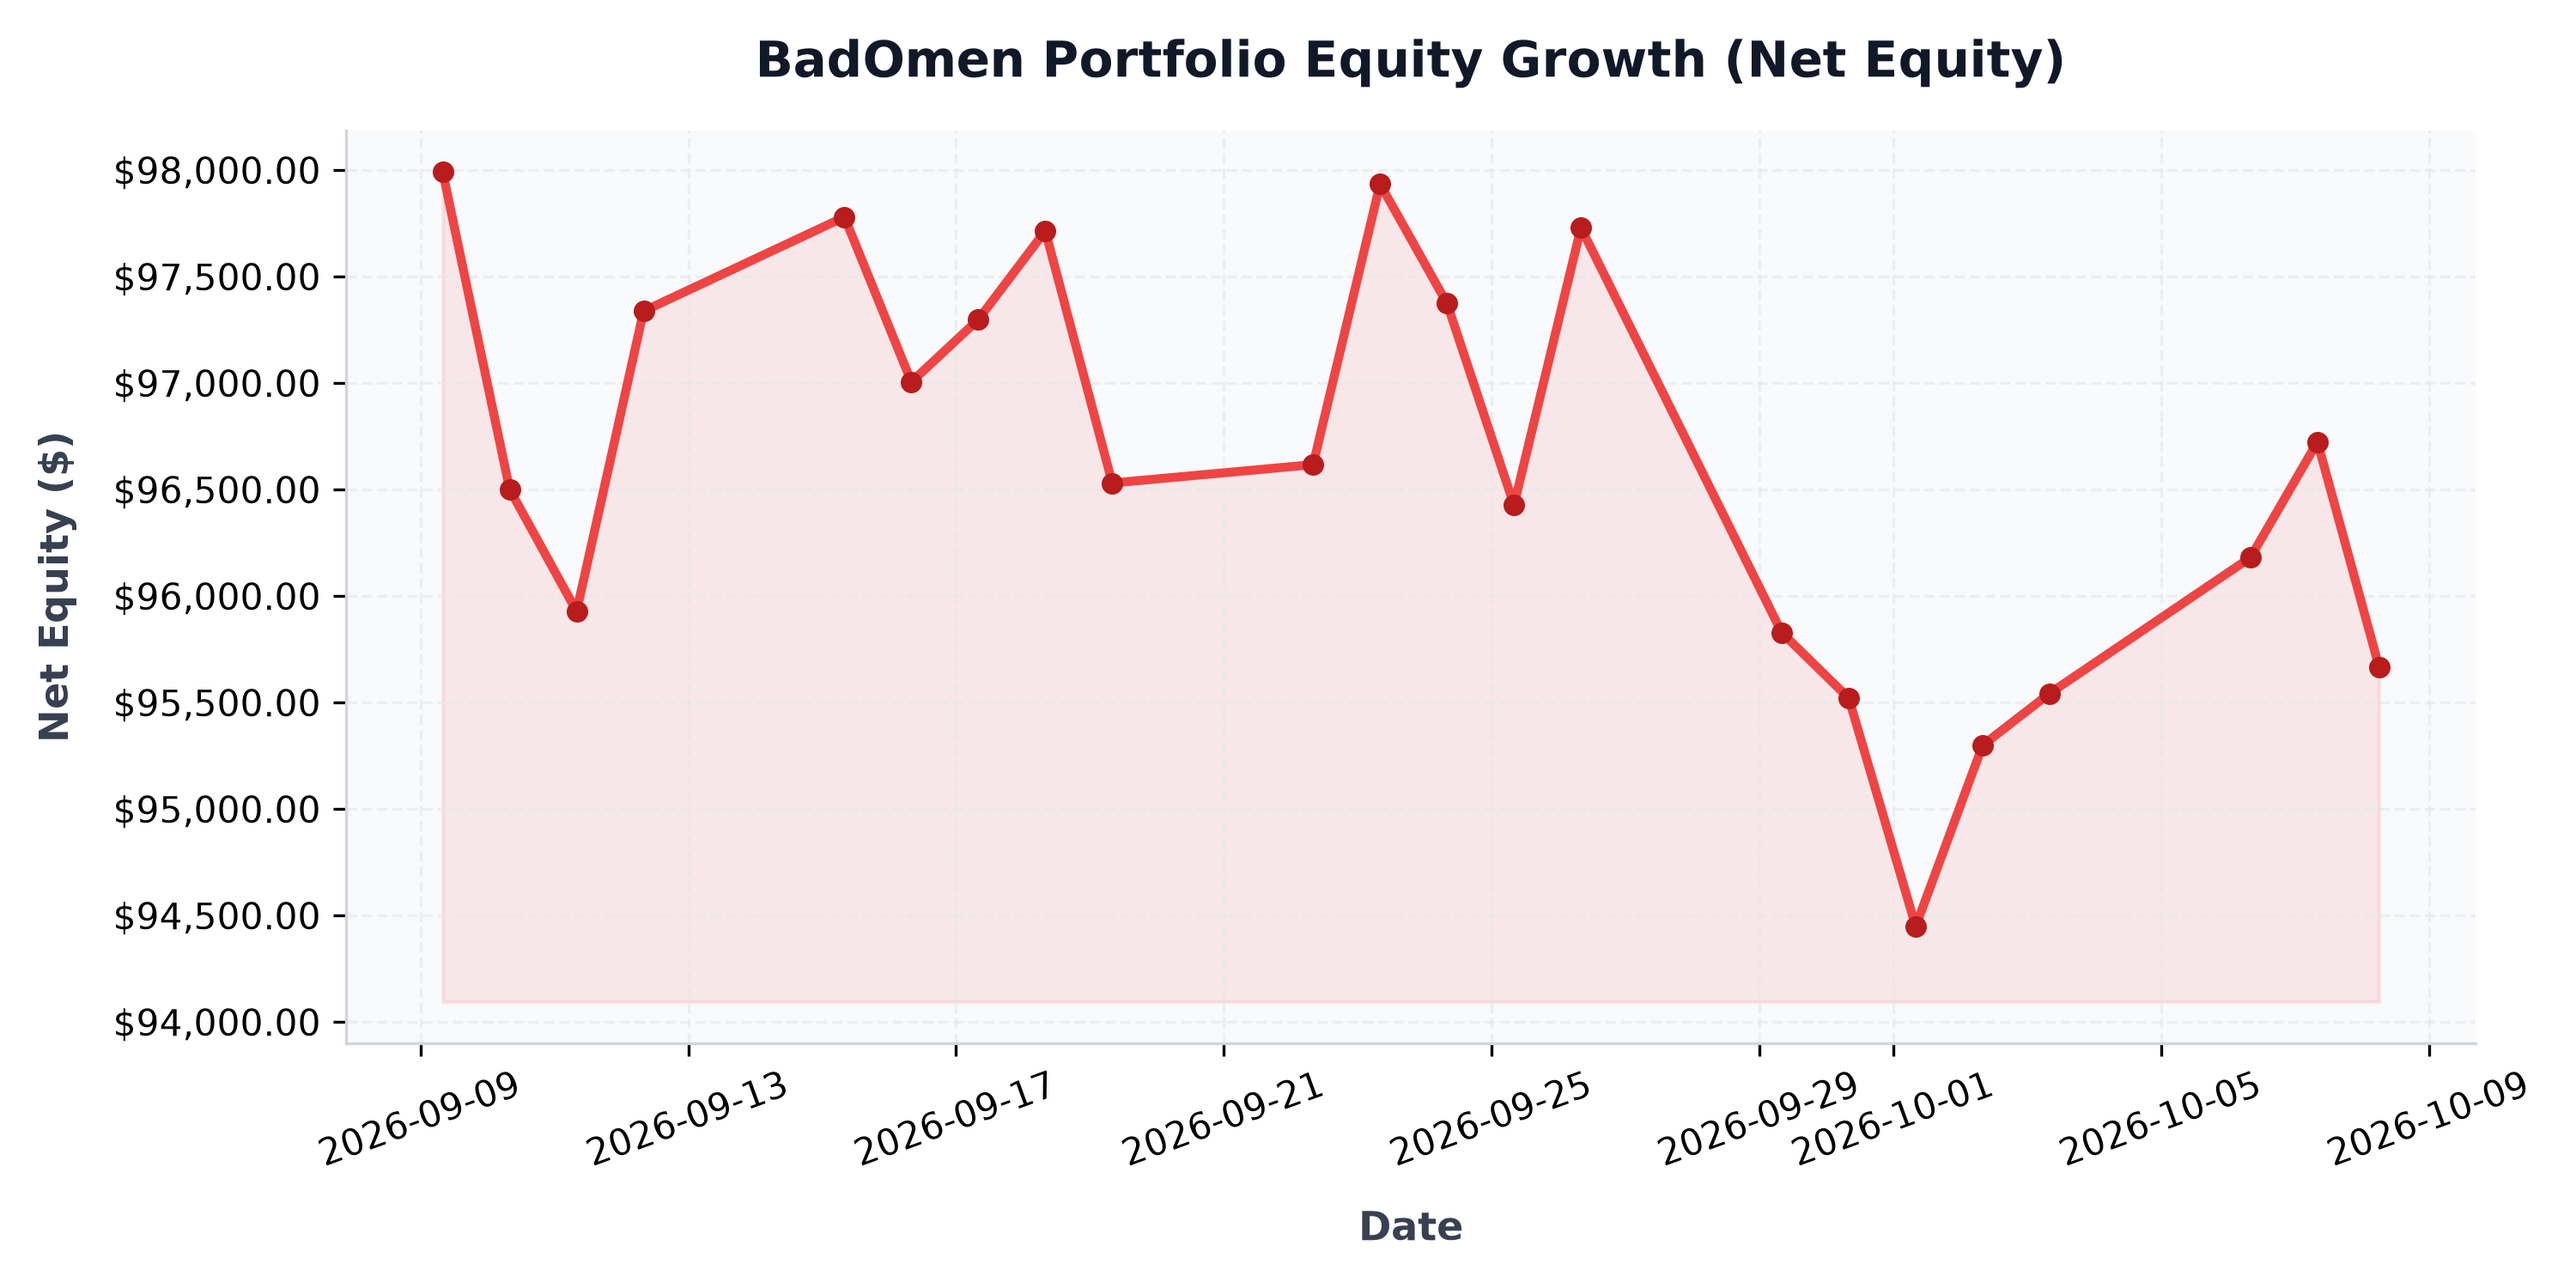
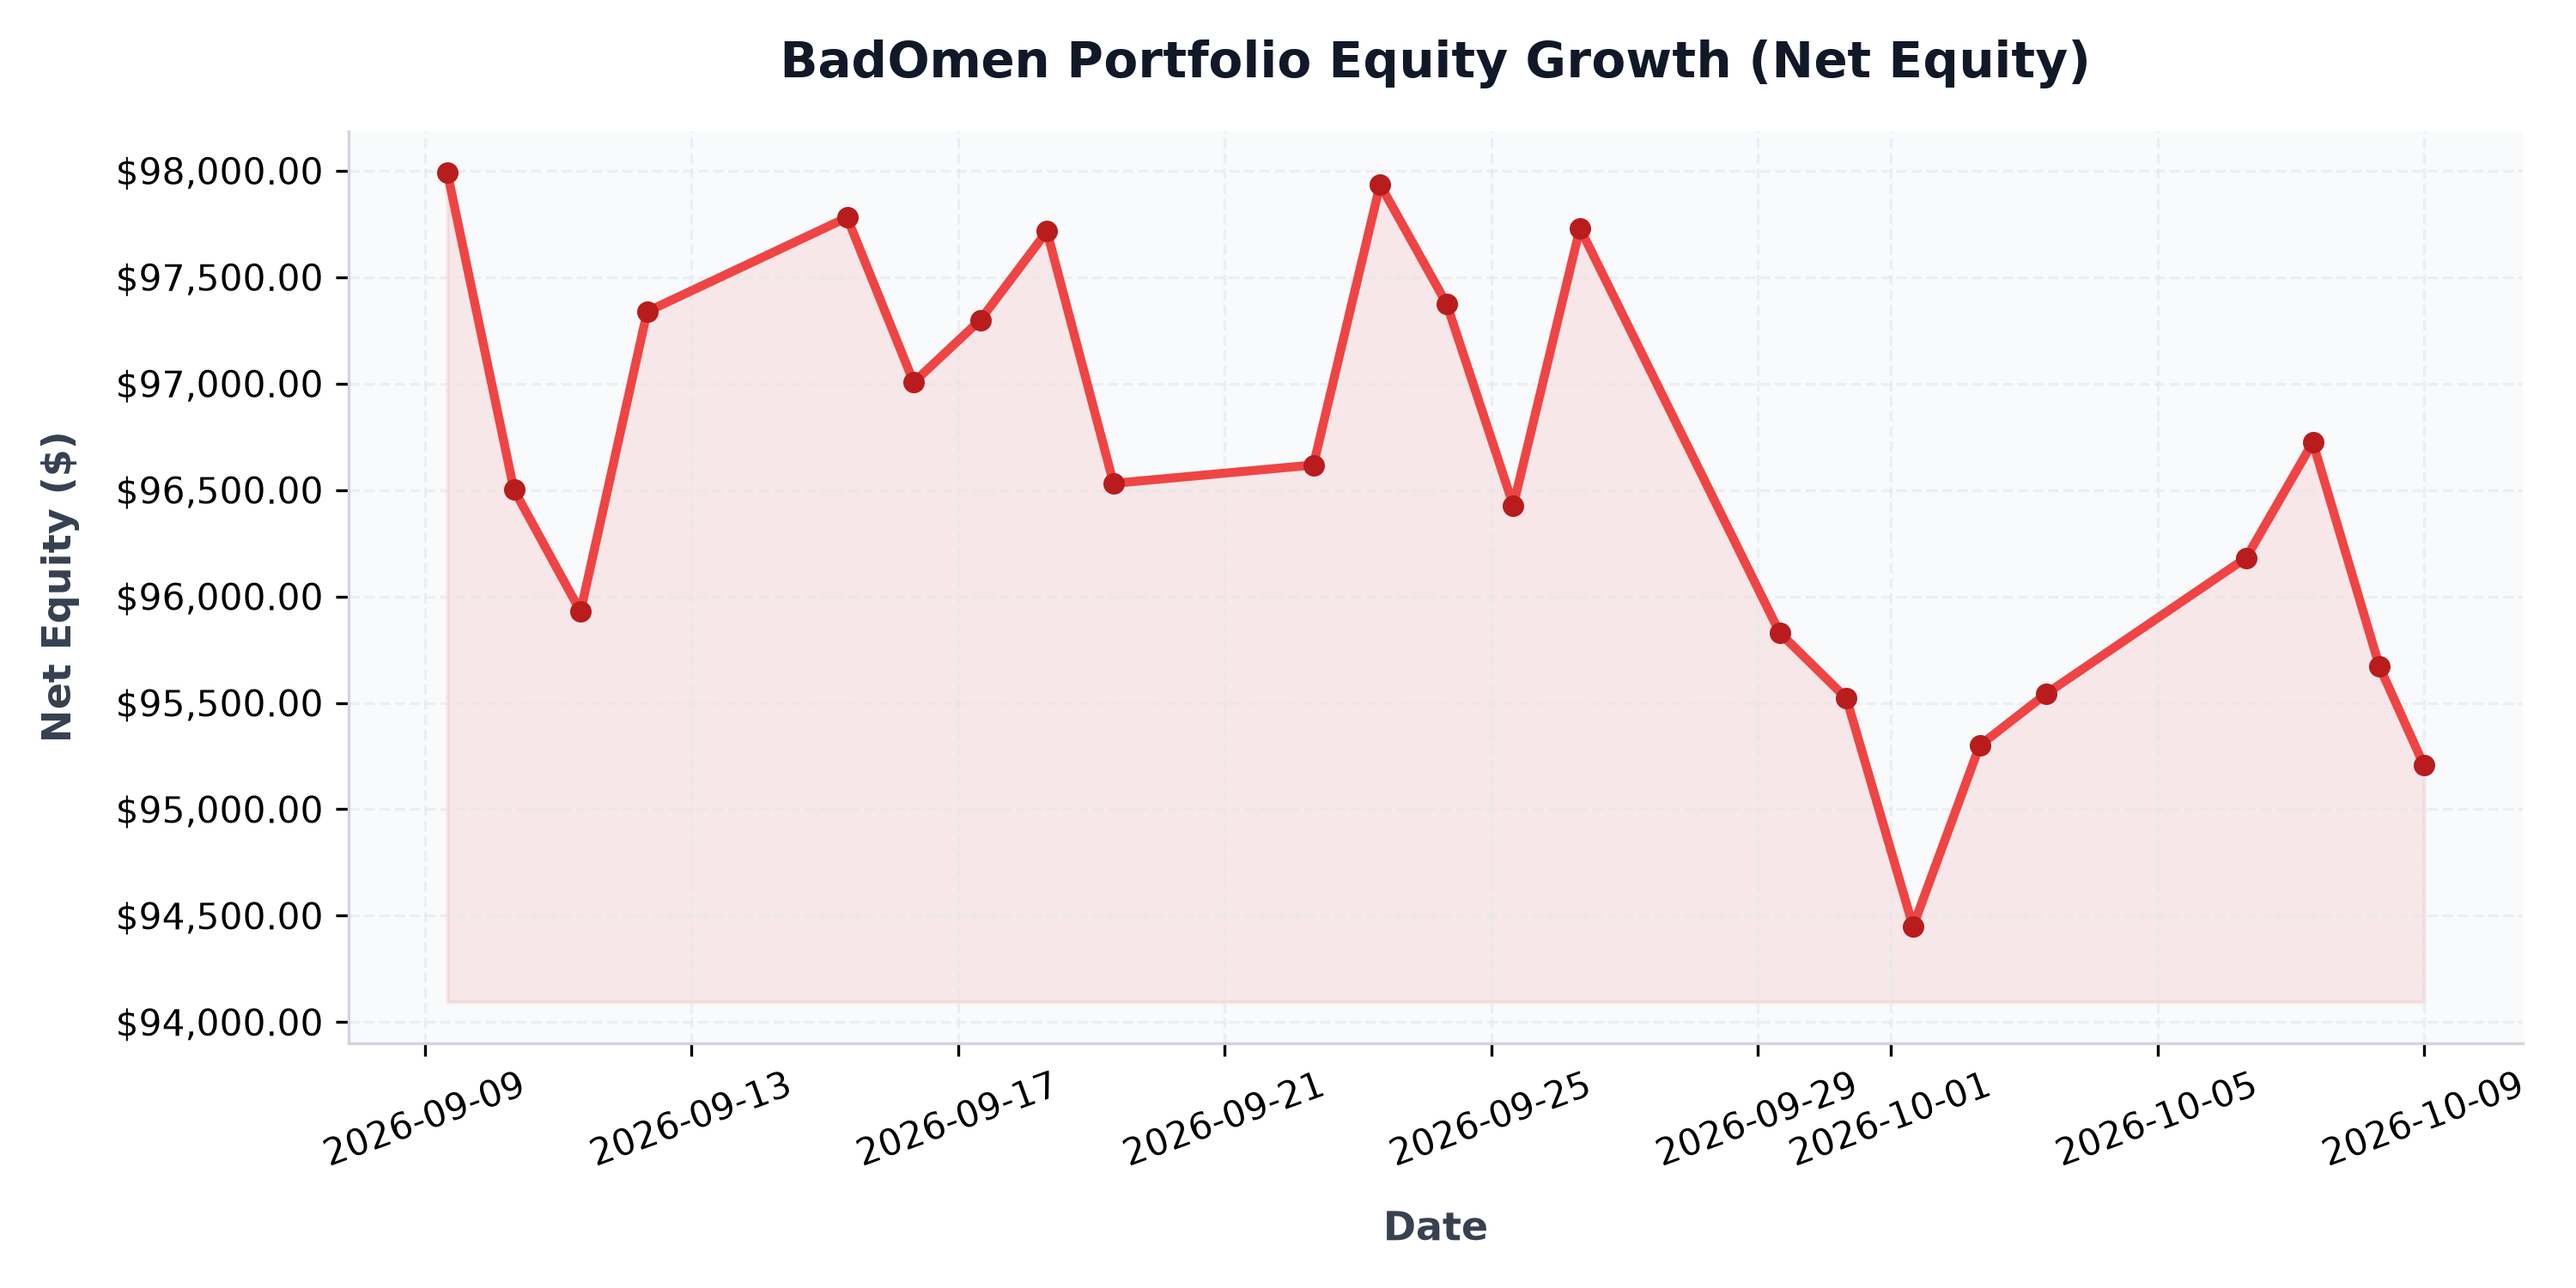
auto: daily portfolio status update - 2026-10-09 00:00:14

diff --git a/src/content/posts/portfolio-performance.md b/src/content/posts/portfolio-performance.md
@@ -1,6 +1,6 @@
 ---
 title: "BadOmen Algorithmic Portfolio Performance & PnL Report"
-pubDatetime: 2026-10-08T06:05:13.474182+08:00
+pubDatetime: 2026-10-09T00:00:14.717110+08:00
 description: "Live performance metrics, active holdings, and historic equity curve for the BadOmen automated paper trading portfolio."
 featured: true
 draft: false
@@ -16,11 +16,11 @@ Welcome to the live performance dashboard for **BadOmen**, our automated algorit
 ## 📊 Portfolio Summary
 | Performance Metric | Value | description |
 | :--- | :--- | :--- |
-| **Net Portfolio Equity** | **$95,667.67** | Total current liquidation value of cash and stock holdings |
-| **Total Unrealized P&L** | 🔴 **$-5,384.66** (-5.33%) | Total return of current open holdings |
+| **Net Portfolio Equity** | **$95,206.98** | Total current liquidation value of cash and stock holdings |
+| **Total Unrealized P&L** | 🔴 **$-5,839.27** (-5.78%) | Total return of current open holdings |
 | **Cash Balance** | $24,224.56 | Idle reserve currency available for limit orders |
-| **Buying Power** | $296,938.95 | Margin-backed buying power for entry allocations |
-| **Report Updated** | `2026-10-08 06:05:13 (SGT)` | Timestamp of daily execution and sync run |
+| **Buying Power** | $295,649.00 | Margin-backed buying power for entry allocations |
+| **Report Updated** | `2026-10-09 00:00:14 (SGT)` | Timestamp of daily execution and sync run |
 
 ## 📈 Net Equity Growth Curve
 The chart below illustrates the historical performance of the account starting from our baseline capital funding of $100,000.00.
@@ -35,35 +35,35 @@ The chart below illustrates the exposure of our currently held active positions 
 ## 💼 Current Position Holdings
 | Ticker | Industry | Shares Owned | Average Entry Cost | Current Price | Unrealized P&L | Return (%) |
 | :--- | :--- | :--- | :--- | :--- | :--- | :--- |
-| **AN** | Auto & Truck Dealerships | 5 | $188.51 | $156.21 | 🔴 $-161.49 | -17.13% |
-| **AVGO** | Semiconductors | 1 | $385.71 | $376.01 | 🔴 $-9.70 | -2.51% |
-| **BIRK** | Footwear & Accessories | 407 | $37.32 | $33.17 | 🔴 $-1,688.12 | -11.12% |
-| **BLBD** | Farm & Heavy Construction Machinery | 231 | $65.52 | $55.84 | 🔴 $-2,235.15 | -14.77% |
-| **BVN** | Other Precious Metals & Mining | 32 | $31.88 | $31.13 | 🔴 $-23.84 | -2.34% |
-| **CELH** | Beverages - Non-Alcoholic | 33 | $29.71 | $26.98 | 🔴 $-90.20 | -9.20% |
-| **CPRI** | Luxury Goods | 1042 | $14.55 | $14.44 | 🔴 $-116.50 | -0.77% |
-| **DUOL** | Software - Application | 14 | $131.04 | $151.50 | 🟢 +$286.38 | +15.61% |
-| **FIS** | Information Technology Services | 23 | $41.79 | $33.51 | 🔴 $-190.38 | -19.81% |
-| **GDDY** | Software - Infrastructure | 6 | $76.21 | $97.21 | 🟢 +$126.00 | +27.56% |
-| **GDS** | Information Technology Services | 30 | $32.77 | $31.63 | 🔴 $-34.20 | -3.48% |
-| **GGAL** | Banks - Regional | 17 | $56.04 | $37.05 | 🔴 $-322.82 | -33.89% |
-| **GOOGL** | Internet Content & Information | 3 | $319.44 | $350.41 | 🟢 +$92.90 | +9.69% |
-| **GPI** | Auto & Truck Dealerships | 3 | $316.15 | $232.61 | 🔴 $-250.62 | -26.42% |
-| **HUBS** | Software - Application | 8 | $221.18 | $220.33 | 🔴 $-6.81 | -0.39% |
-| **ITRI** | Scientific & Technical Instruments | 12 | $81.80 | $85.58 | 🟢 +$45.36 | +4.62% |
-| **KBR** | Engineering & Construction | 27 | $36.23 | $33.89 | 🔴 $-63.26 | -6.47% |
-| **NESR** | Oil & Gas Equipment & Services | 34 | $28.74 | $23.63 | 🔴 $-173.74 | -17.78% |
-| **NU** | Banks - Regional | 57 | $11.60 | $15.61 | 🟢 +$228.56 | +34.57% |
-| **ON** | Semiconductors | 10 | $90.45 | $82.72 | 🔴 $-77.35 | -8.55% |
-| **ORCL** | Software - Infrastructure | 5 | $181.95 | $143.90 | 🔴 $-190.25 | -20.91% |
-| **PATH** | Software - Infrastructure | 38 | $10.25 | $13.05 | 🟢 +$106.40 | +27.32% |
-| **PYPL** | Credit Services | 17 | $56.05 | $55.08 | 🔴 $-16.49 | -1.73% |
-| **QCOM** | Semiconductors | 15 | $193.68 | $177.27 | 🔴 $-246.28 | -8.48% |
-| **SMCI** | Computer Hardware | 22 | $29.25 | $44.94 | 🟢 +$345.18 | +53.64% |
-| **SRE** | Utilities - Diversified | 57 | $84.75 | $79.69 | 🔴 $-288.56 | -5.97% |
-| **T** | Telecom Services | 47 | $20.85 | $24.50 | 🟢 +$171.55 | +17.51% |
-| **WEN** | Restaurants | 257 | $8.02 | $6.09 | 🔴 $-496.97 | -24.10% |
-| **ZG** | Internet Content & Information | 31 | $31.35 | $27.99 | 🔴 $-104.26 | -10.73% |
+| **AN** | Auto & Truck Dealerships | 5 | $188.51 | $154.90 | 🔴 $-168.04 | -17.83% |
+| **AVGO** | Semiconductors | 1 | $385.71 | $371.46 | 🔴 $-14.24 | -3.69% |
+| **BIRK** | Footwear & Accessories | 407 | $37.32 | $32.50 | 🔴 $-1,960.81 | -12.91% |
+| **BLBD** | Farm & Heavy Construction Machinery | 231 | $65.52 | $55.49 | 🔴 $-2,314.84 | -15.29% |
+| **BVN** | Other Precious Metals & Mining | 32 | $31.88 | $31.16 | 🔴 $-23.04 | -2.26% |
+| **CELH** | Beverages - Non-Alcoholic | 33 | $29.71 | $27.39 | 🔴 $-76.65 | -7.82% |
+| **CPRI** | Luxury Goods | 1042 | $14.55 | $14.52 | 🔴 $-38.35 | -0.25% |
+| **DUOL** | Software - Application | 14 | $131.04 | $151.05 | 🟢 +$280.05 | +15.27% |
+| **FIS** | Information Technology Services | 23 | $41.79 | $33.63 | 🔴 $-187.68 | -19.53% |
+| **GDDY** | Software - Infrastructure | 6 | $76.21 | $101.70 | 🟢 +$152.94 | +33.45% |
+| **GDS** | Information Technology Services | 30 | $32.77 | $30.46 | 🔴 $-69.30 | -7.05% |
+| **GGAL** | Banks - Regional | 17 | $56.04 | $37.06 | 🔴 $-322.65 | -33.87% |
+| **GOOGL** | Internet Content & Information | 3 | $319.44 | $349.00 | 🟢 +$88.68 | +9.25% |
+| **GPI** | Auto & Truck Dealerships | 3 | $316.15 | $230.35 | 🔴 $-257.38 | -27.14% |
+| **HUBS** | Software - Application | 8 | $221.18 | $221.94 | 🟢 +$6.09 | +0.34% |
+| **ITRI** | Scientific & Technical Instruments | 12 | $81.80 | $83.96 | 🟢 +$25.92 | +2.64% |
+| **KBR** | Engineering & Construction | 27 | $36.23 | $34.03 | 🔴 $-59.48 | -6.08% |
+| **NESR** | Oil & Gas Equipment & Services | 34 | $28.74 | $23.38 | 🔴 $-182.24 | -18.65% |
+| **NU** | Banks - Regional | 57 | $11.60 | $15.52 | 🟢 +$223.52 | +33.81% |
+| **ON** | Semiconductors | 10 | $90.45 | $80.67 | 🔴 $-97.80 | -10.81% |
+| **ORCL** | Software - Infrastructure | 5 | $181.95 | $141.13 | 🔴 $-204.10 | -22.43% |
+| **PATH** | Software - Infrastructure | 38 | $10.25 | $13.01 | 🟢 +$104.69 | +26.88% |
+| **PYPL** | Credit Services | 17 | $56.05 | $54.44 | 🔴 $-27.45 | -2.88% |
+| **QCOM** | Semiconductors | 15 | $193.68 | $173.20 | 🔴 $-307.27 | -10.58% |
+| **SMCI** | Computer Hardware | 22 | $29.25 | $42.74 | 🟢 +$296.76 | +46.12% |
+| **SRE** | Utilities - Diversified | 57 | $84.75 | $79.47 | 🔴 $-301.38 | -6.24% |
+| **T** | Telecom Services | 47 | $20.85 | $24.57 | 🟢 +$174.73 | +17.83% |
+| **WEN** | Restaurants | 257 | $8.02 | $6.12 | 🔴 $-490.54 | -23.79% |
+| **ZG** | Internet Content & Information | 31 | $31.35 | $28.47 | 🔴 $-89.38 | -9.20% |
 
 ## 🔴 Recent Realized Trades
 | Ticker | Shares Sold | Entry Price | Exit Price | Strategy Trigger | Realized Return | Exit Date |
